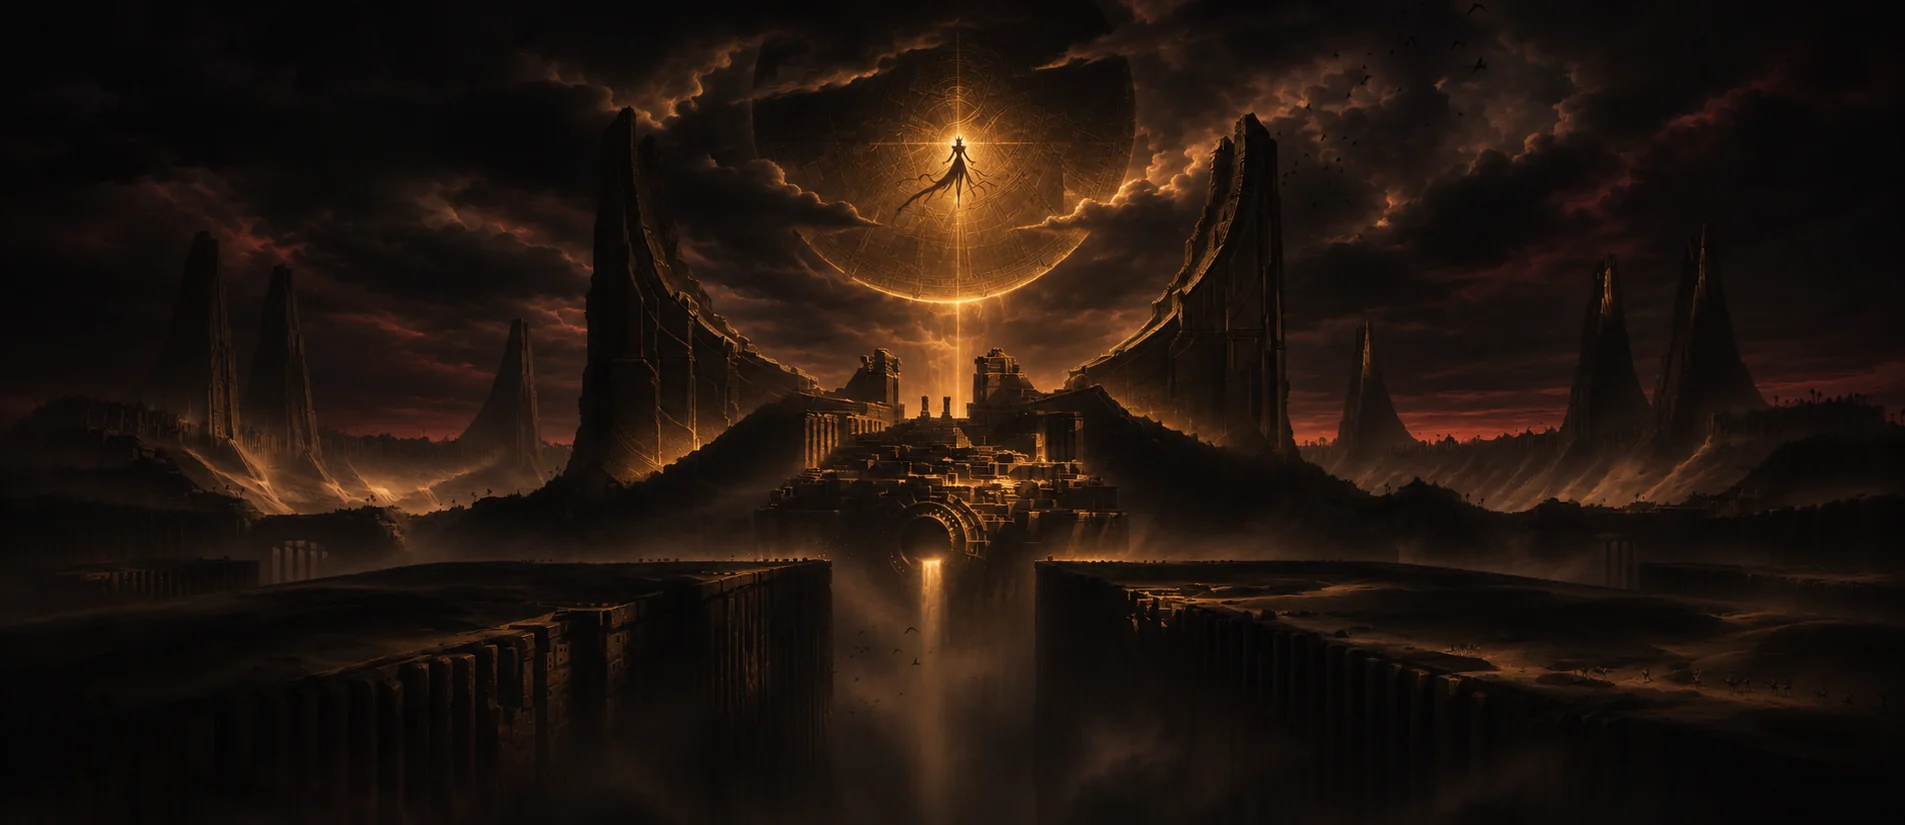
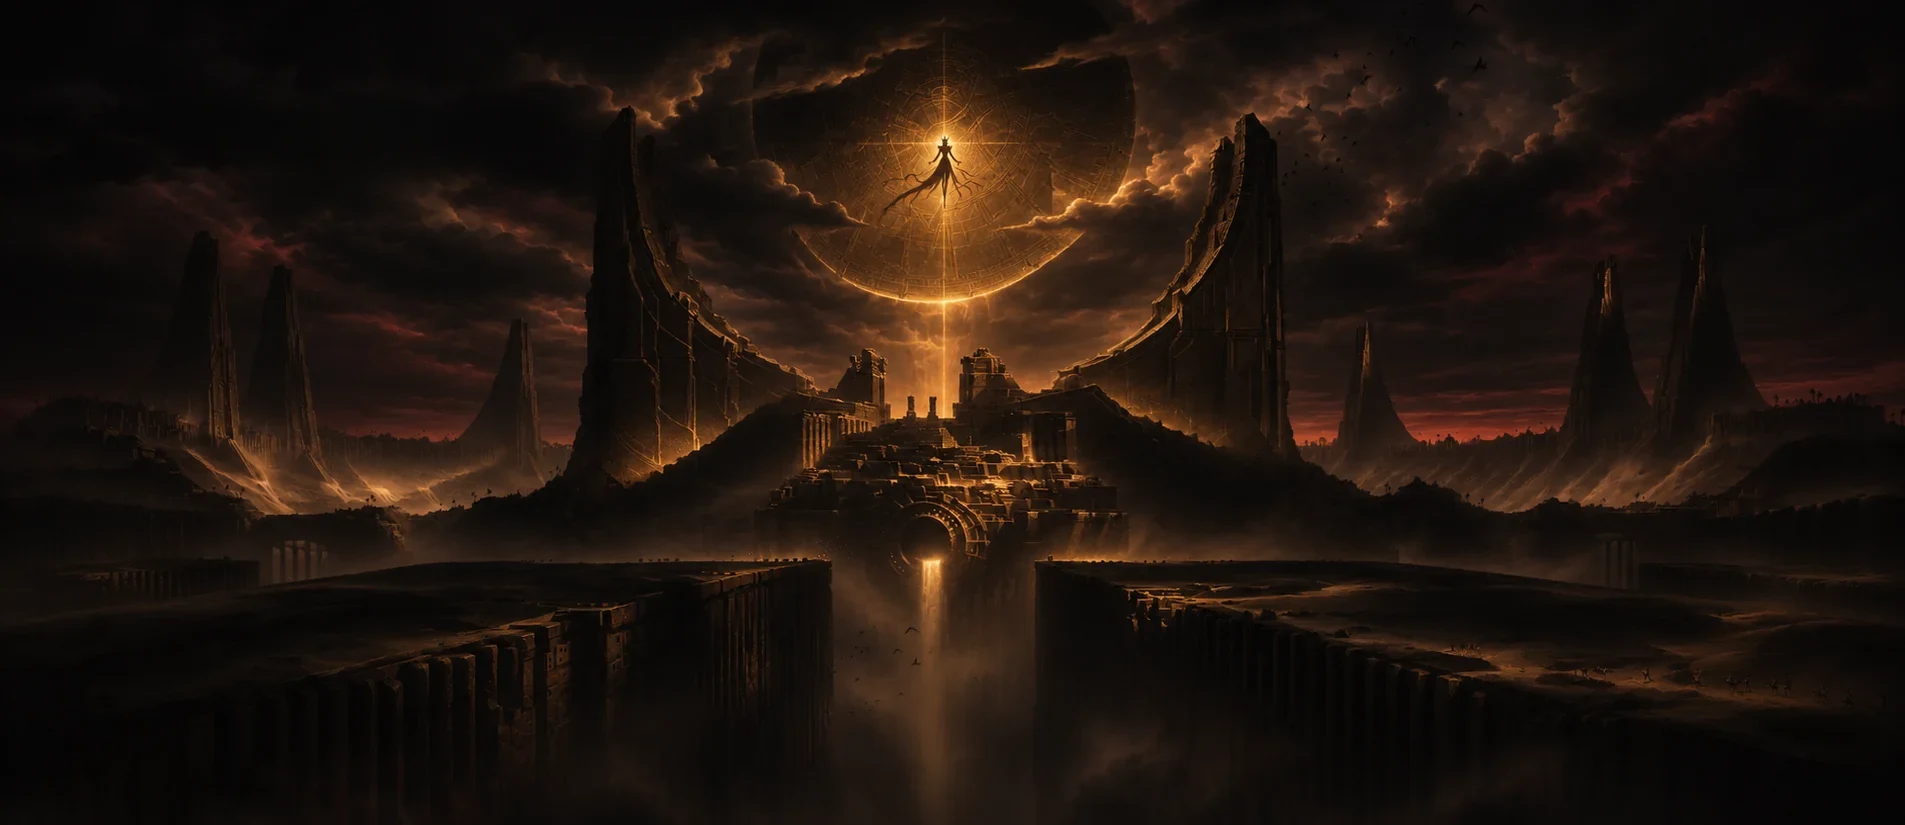
Center LeBlanc on the sun disc; cache-bust gateway and hero scripts
- Shift the figure and the light column so LeBlanc sits in the middle of the disc
- Move the animated glow/beam anchors to match
- Add ?v=2 to script URLs so browsers load the updated animations

Claude-Session: https://claude.ai/code/session_01YLiLS7TjEdho7h5h9Z6wkd

Changed region(s): [[0.4026, 0.0606, 0.5885, 0.6364], [0.5265, 0.0606, 0.5575, 0.0909], [0.4646, 0.0303, 0.4955, 0.0606]]

diff --git a/ioc-ascension.js b/ioc-ascension.js
@@ -7,10 +7,10 @@
    and a mirror image of it shivers beside it: an ascension, and an illusion.
    mount(canvas) → stop(). Reduced motion: the painting with its light, still. */
 (function () {
-  var TAU = Math.PI * 2, SRC = 'uploads/ioc/shurima-ascension-dark.webp';
+  var TAU = Math.PI * 2, SRC = 'uploads/ioc/shurima-ascension-dark.webp?v=2';
   var IW = 1905, IH = 825;                                   // painting size
-  var DISC = { x: 0.4965, y: 0.2, r: 0.1 };
-  var CORE = { x: 0.4985, y: 0.198 };                         // the figure at the heart of the disc                // r as a share of the painting's width
+  var DISC = { x: 0.4953, y: 0.2, r: 0.1 };
+  var CORE = { x: 0.4955, y: 0.198 };                         // the figure at the heart of the disc                // r as a share of the painting's width
   var FALL = { x: 0.4875, y: 0.68, y1: 0.9 };
   var BEAM = { y0: 0.36, y1: 0.54 };
   function rng(seed) { var s = seed >>> 0; return function () { s = (s + 0x6D2B79F5) >>> 0; var t = Math.imul(s ^ (s >>> 15), 1 | s); t = (t + Math.imul(t ^ (t >>> 7), 61 | t)) ^ t; return ((t ^ (t >>> 14)) >>> 0) / 4294967296; }; }
@@ -126,7 +126,7 @@
       for (var di = 0; di < DUST.length; di++) {
         var D = DUST[di];
         if (di % 3 === 0) {                                     // embers climbing the beam of light
-          var eu = (D.x + t * D.v * 1.6) % 1, ex2 = 0.4985 + Math.sin(t * 0.9 + D.p) * 0.012 * (1 + eu * 2), ey2 = BEAM.y1 + 0.06 - eu * (BEAM.y1 - BEAM.y0 + 0.12);
+          var eu = (D.x + t * D.v * 1.6) % 1, ex2 = CORE.x + Math.sin(t * 0.9 + D.p) * 0.012 * (1 + eu * 2), ey2 = BEAM.y1 + 0.06 - eu * (BEAM.y1 - BEAM.y0 + 0.12);
           var ep = P(ex2, ey2);
           c.fillStyle = 'rgba(255,' + (150 + Math.round(60 * D.a)) + ',70,' + (D.a + 0.3) * Math.sin(eu * Math.PI) + ')';
           c.fillRect(ep[0], ep[1], D.s * S + 0.6, D.s * S + 0.6);

diff --git a/index.html b/index.html
@@ -4,8 +4,8 @@
 <meta charset="utf-8">
 <meta name="viewport" content="width=device-width, initial-scale=1">
 <title>Campaign Gateway</title>
-<script src="./tsv-hourglass.js"></script>
-<script src="./ioc-wind.js"></script>
+<script src="./tsv-hourglass.js?v=2"></script>
+<script src="./ioc-wind.js?v=2"></script>
 <script src="./support.js"></script>
 </head>
 <body>

diff --git a/Isle of Crows.dc.html b/Isle of Crows.dc.html
@@ -3,7 +3,7 @@
 <head>
 <meta charset="utf-8">
 <meta name="viewport" content="width=device-width, initial-scale=1">
-<script src="./ioc-ascension.js"></script>
+<script src="./ioc-ascension.js?v=2"></script>
 <script src="./support.js"></script>
 </head>
 <body>
